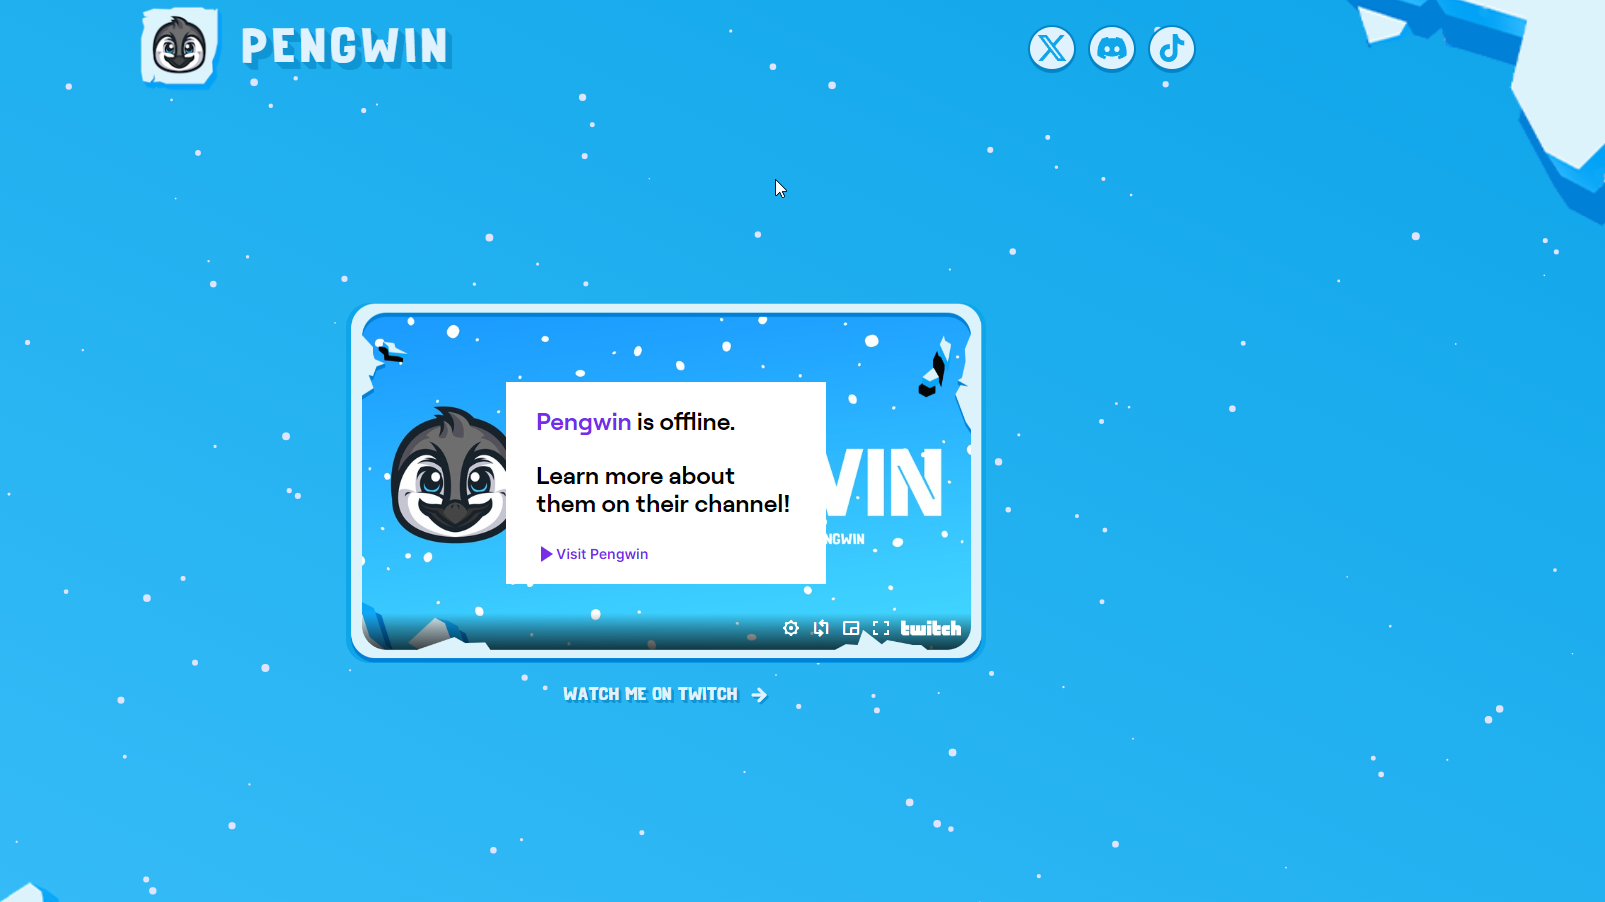
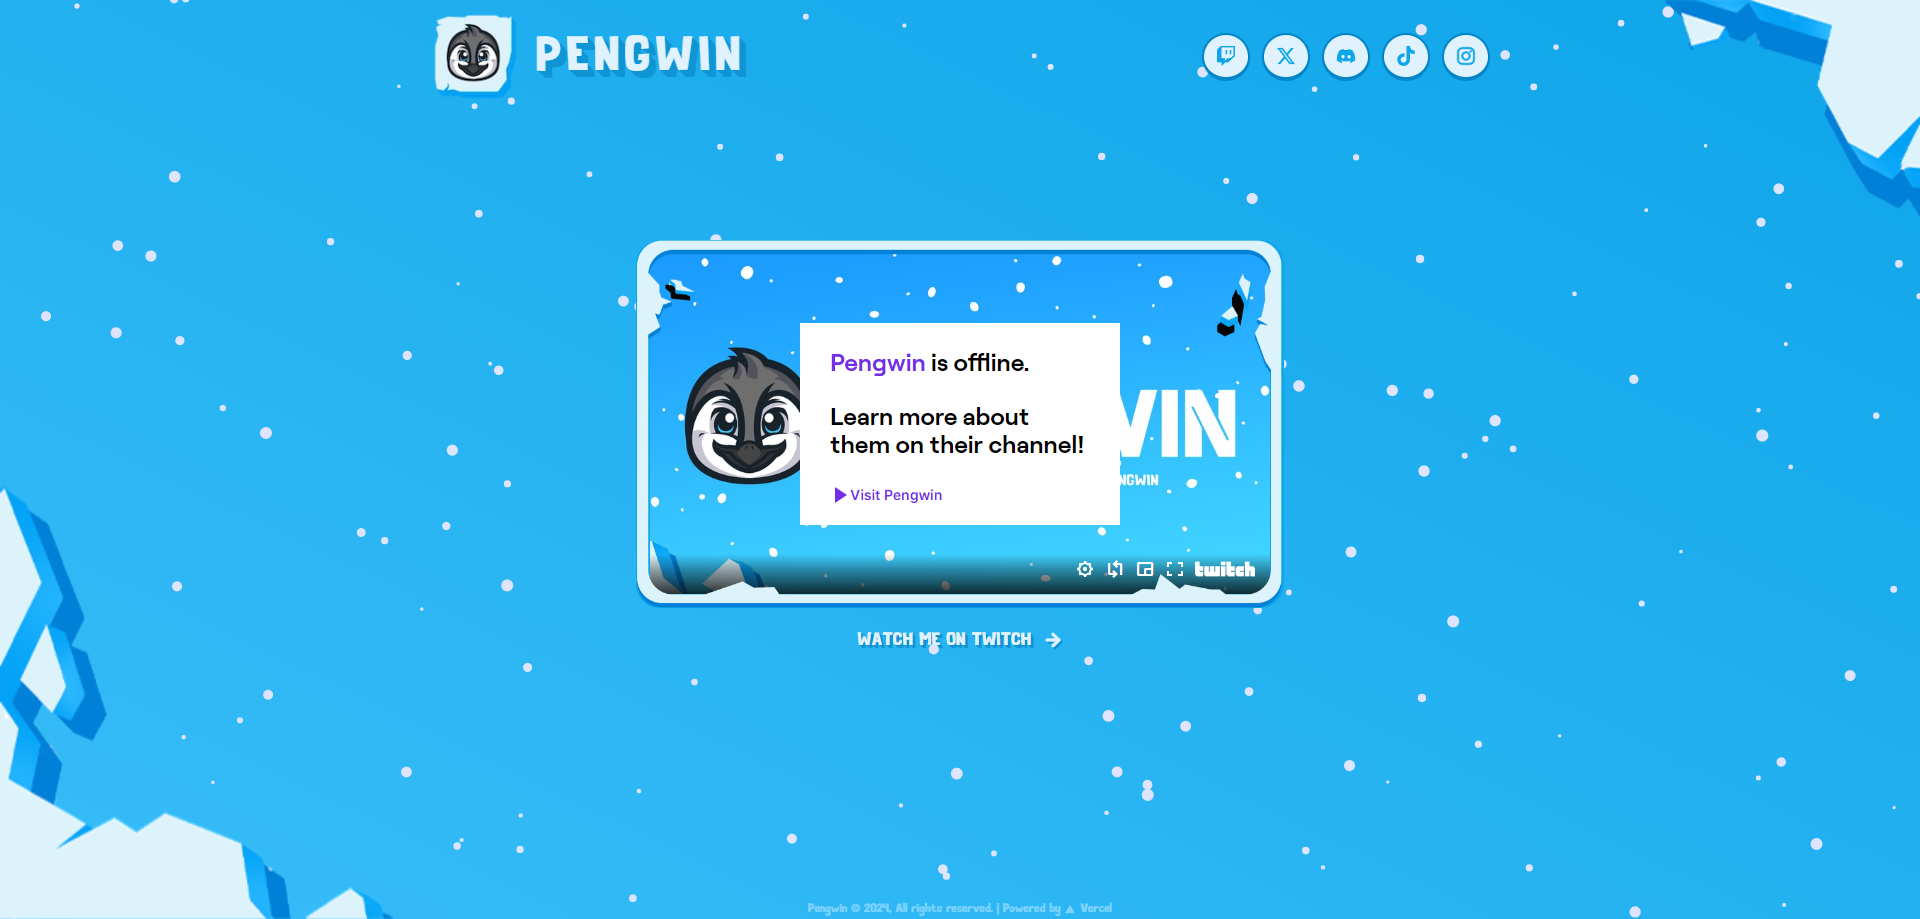
updated projects

diff --git a/app/components/Projects.tsx b/app/components/Projects.tsx
@@ -2,6 +2,7 @@ import React from "react";
 import { projects } from "../lib/data";
 import Link from "next/link";
 import { IoOpenOutline } from "react-icons/io5";
+import Image from "next/image";
 
 const Projects = () => {
   return (
@@ -12,17 +13,24 @@ const Projects = () => {
       <h1 className="text-[2.5rem] font-bold blue_gradient mb-16">Projects</h1>
       <ul className="flex-center flex-wrap gap-10">
         {projects.map((project, index) => (
-          <li className="text-center bg-black/50 p-5 rounded-xl flex max-w-[400px] shadow-lg group h-[350px] relative overflow-hidden">
-            <div className="w-1/2 flex flex-col justify-between h-full">
+          <li className="text-center bg-black/50 p-5 rounded-xl flex-center flex-col w-full mx-3 max-w-[600px] shadow-lg group h-[350px] relative overflow-hidden group">
+            <Image
+              src={project.image}
+              alt={project.title}
+              layout="fill"
+              objectFit="cover"
+              className="group-hover:scale-110 transition-all"
+            />
+            <div className="flex flex-col justify-between w-full h-full absolute z-10 p-5 bg-black/70 origin-top scale-y-0 group-hover:scale-y-100 transition-all">
               <h2 className="text-2xl text-zinc-200 font-extrabold">
                 {project.title}
               </h2>
-              <p className="text-zinc-400 font-semibold">
+              <p className="text-zinc-300 font-semibold">
                 {project.description}
               </p>
-              <ul className="flex-center flex-wrap max-w-[300px] gap-1">
+              <ul className="flex-center w-full flex-wrap gap-1">
                 {project.tags.map((tag, index) => (
-                  <li className="text-sky-500 bg-black/60 p-2 rounded-xl font-semibold">
+                  <li className="text-sky-500 bg-black/60 p-2 rounded-xl font-semibold text-xs">
                     {tag}
                   </li>
                 ))}
@@ -48,11 +56,6 @@ const Projects = () => {
                 )}
               </div>
             </div>
-            <img
-              src={project.image}
-              alt={project.title}
-              className="absolute top-0 left-1/2 h-full translate-x-3 object-cover object-left"
-            />
           </li>
         ))}
       </ul>

diff --git a/app/components/Footer.tsx b/app/components/Footer.tsx
@@ -1,10 +1,12 @@
 import React from "react";
+import { CgVercel } from "react-icons/cg";
 
 const Footer = () => {
   return (
-    <footer className="text-center text-zinc-400 text-xs mt-16 mb-4">
+    <footer className="text-center text-zinc-400 text-xs mt-16 mb-4 flex items-center justify-center gap-1">
       © 2024 Ethan Sutherland | All Rights Reserved | Made with Next.js,
-      TailwindCSS, and Framer Motion
+      TailwindCSS, and Framer Motion | Powered By Vercel{" "}
+      <CgVercel className="w-5 h-5" />
     </footer>
   );
 };
